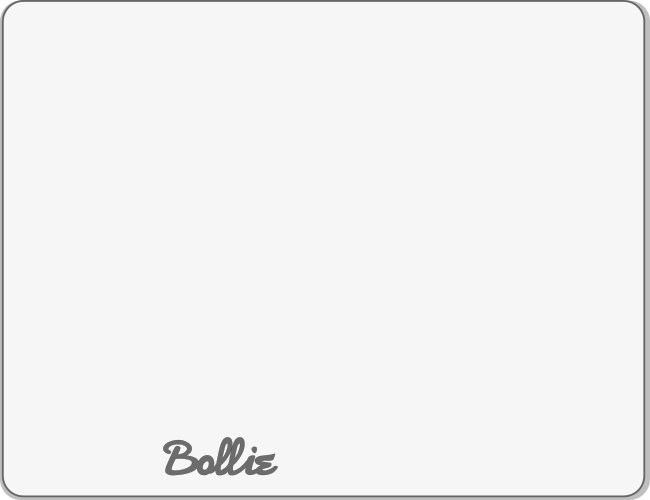
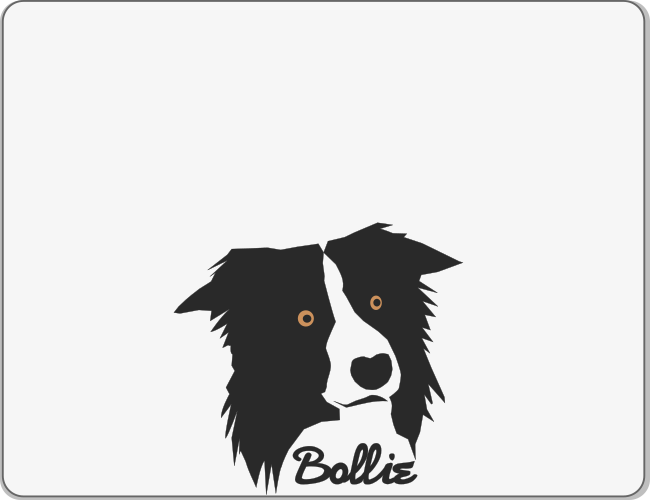
Changing the design. ;)

Changed region(s): [[0.2462, 0.45, 0.7077, 0.99]]

diff --git a/modgui/bolliedelayxt.html b/modgui/bolliedelayxt.html
@@ -100,14 +100,14 @@
   <div class="mod-knob" title="High Cut Frequency">
    <div class="mod-knob-image" mod-role="input-control-port"
     mod-port-symbol="CP_HCF_PRE_FREQ"></div><span 
-    class="mod-knob-title">High cut freq.</span>
+    class="mod-knob-title">Freq.</span>
    <div class="mod-knob-value" contenteditable="false"
     mod-role="input-control-value" mod-port-symbol="CP_HCF_PRE_FREQ"></div>
   </div>
   <div class="mod-knob" title="High Cut Quality">
    <div class="mod-knob-image" mod-role="input-control-port"
     mod-port-symbol="CP_HCF_PRE_Q"></div><span 
-    class="mod-knob-title">High cut Q.</span>
+    class="mod-knob-title bright">Quality</span>
    <div class="mod-knob-value" contenteditable="false"
     mod-role="input-control-value" mod-port-symbol="CP_HCF_PRE_Q"></div>
   </div>
@@ -115,19 +115,19 @@
   <div class="mod-knob" title="Switch Low Cut Filter">
    <div class="mod-toggle off" mod-role="input-control-port"
     mod-port-symbol="CP_LCF_PRE_ON" mod-widget="switch"></div><span 
-    class="mod-knob-title">Low cut on</span>
+    class="mod-knob-title bright">Low cut on</span>
   </div>
   <div class="mod-knob" title="Low Cut Frequency">
    <div class="mod-knob-image" mod-role="input-control-port"
     mod-port-symbol="CP_LCF_PRE_FREQ"></div><span 
-    class="mod-knob-title">Low cut freq.</span>
+    class="mod-knob-title">Freq.</span>
    <div class="mod-knob-value" contenteditable="false"
     mod-role="input-control-value" mod-port-symbol="CP_LCF_PRE_FREQ"></div>
   </div>
   <div class="mod-knob" title="Low Cut Quality">
    <div class="mod-knob-image" mod-role="input-control-port"
     mod-port-symbol="CP_LCF_PRE_Q"></div><span 
-    class="mod-knob-title">Low cut Q.</span>
+    class="mod-knob-title">Quality</span>
    <div class="mod-knob-value" contenteditable="false"
     mod-role="input-control-value" mod-port-symbol="CP_LCF_PRE_Q"></div>
   </div>
@@ -140,14 +140,14 @@
   <div class="mod-knob" title="High Cut Frequency">
    <div class="mod-knob-image" mod-role="input-control-port"
     mod-port-symbol="CP_HCF_FB_FREQ"></div><span 
-    class="mod-knob-title">High cut freq.</span>
+    class="mod-knob-title">Freq.</span>
    <div class="mod-knob-value" contenteditable="false"
     mod-role="input-control-value" mod-port-symbol="CP_HCF_FB_FREQ"></div>
   </div>
   <div class="mod-knob" title="High Cut Quality">
    <div class="mod-knob-image" mod-role="input-control-port"
     mod-port-symbol="CP_HCF_FB_Q"></div><span 
-    class="mod-knob-title">High cut Q.</span>
+    class="mod-knob-title bright">Quality</span>
    <div class="mod-knob-value" contenteditable="false"
     mod-role="input-control-value" mod-port-symbol="CP_HCF_FB_Q"></div>
   </div>
@@ -155,19 +155,19 @@
   <div class="mod-knob" title="Switch Low Cut Filter (Feedback)">
    <div class="mod-toggle off" mod-role="input-control-port"
     mod-port-symbol="CP_LCF_FB_ON" mod-widget="switch"></div><span 
-    class="mod-knob-title">LCF on (FB)</span>
+    class="mod-knob-title bright">LCF on (FB)</span>
   </div>
   <div class="mod-knob" title="Low Cut Frequency">
    <div class="mod-knob-image" mod-role="input-control-port"
     mod-port-symbol="CP_LCF_FB_FREQ"></div><span 
-    class="mod-knob-title">Low cut freq.</span>
+    class="mod-knob-title">Freq.</span>
    <div class="mod-knob-value" contenteditable="false"
     mod-role="input-control-value" mod-port-symbol="CP_LCF_FB_FREQ"></div>
   </div>
   <div class="mod-knob" title="Low Cut Quality">
    <div class="mod-knob-image" mod-role="input-control-port"
     mod-port-symbol="CP_LCF_FB_Q"></div><span 
-    class="mod-knob-title">Low cut Q.</span>
+    class="mod-knob-title">Quality</span>
    <div class="mod-knob-value" contenteditable="false"
     mod-role="input-control-value" mod-port-symbol="CP_LCF_FB_Q"></div>
   </div>

diff --git a/modgui/bolliedelayxt.css b/modgui/bolliedelayxt.css
@@ -139,6 +139,12 @@
     color: #000000;
 }
 
+.bolliedelay .bollie-group .mod-knob > span.mod-knob-title.bright {
+    text-align: center;
+    color: #cecece;
+    text-shadow: 1px 1px 1px rgba(0,0,0,15);
+}
+
 .bolliedelay .bollie-group .mod-knob .mod-knob-value {
     bottom:0px;
     font-size:11px;
